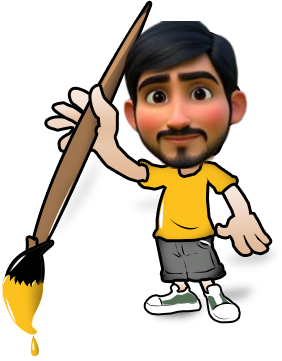
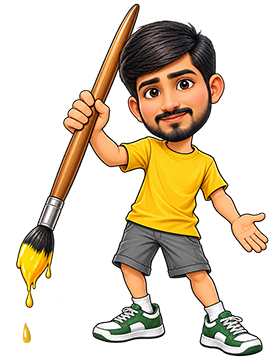
Images chages

diff --git a/css/style.css b/css/style.css
@@ -3474,15 +3474,17 @@ body.loaded #toggle {
   position: absolute;
   top: -152px;
   right: 0;
+  z-index: 2;
 }
 
 #Footer .contact-me-img {
-  width: 209px;
-  height: 239px;
+  width: 200px;
+  height: 369px;
   background: url(../images/contact-me-img.png) no-repeat;
   position: absolute;
-  top: -255px;
-  right: 165px;
+  top: -400px;
+  right: -101px;
+  z-index: 1;
 }
 
 #Footer .container {
